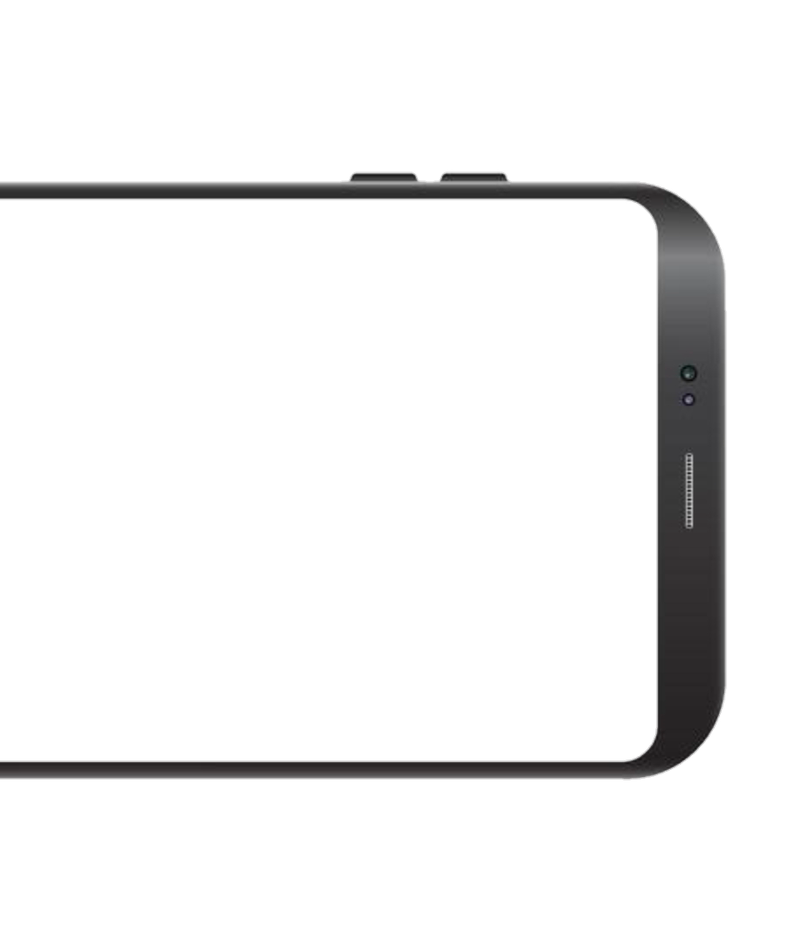
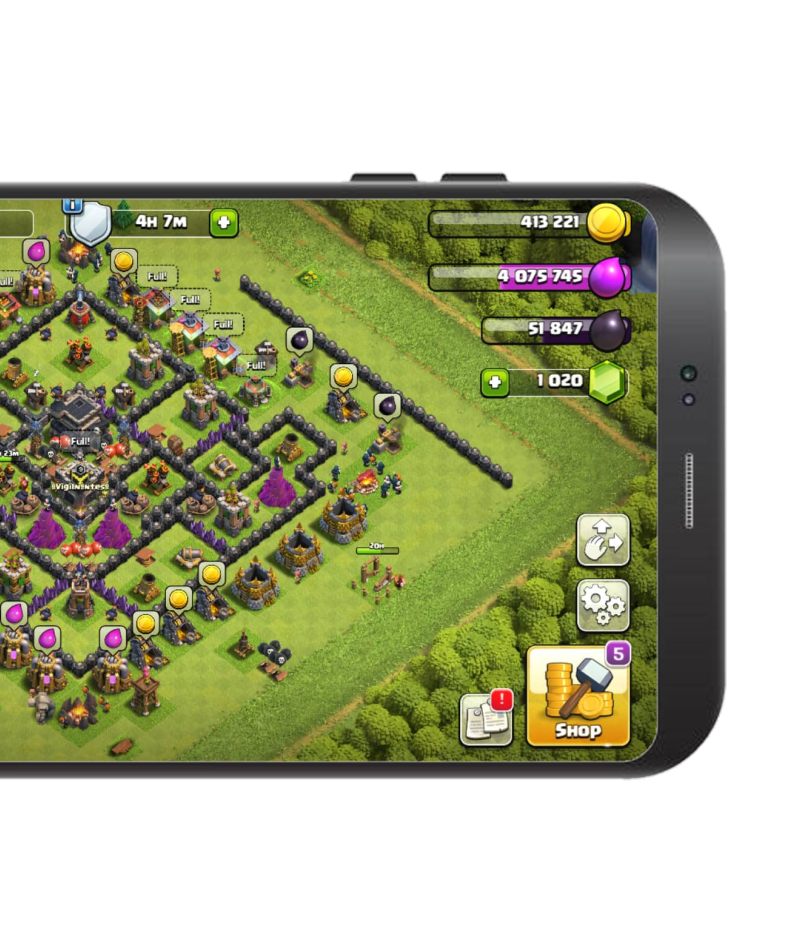
dawson
kulang pa footer tsaka blockquote sa gitna
hindi pa magana yung font

diff --git a/ElixirTroops/Homepagestyle.css b/ElixirTroops/Homepagestyle.css
@@ -68,13 +68,14 @@ header {
 #intro1container {
     grid-area: intro1container;
     padding-top: 10%;
-    padding-left: 10%;
+    padding-right: 40%;
     width: 70%;
 }
 
 #intro2container {
     grid-area: intro2container;
-    padding-left: 10%;
+    padding-top: 10%;
+    padding-left: 50%;
     width: 70%;
 }
 
@@ -84,9 +85,21 @@ header {
     width: 70%;
 }
 
-.phone{
- width: 70%;
- position: left auto;
+.phone{ 
+ 
+ width: 150%;
+ position: left;
  
 }
-
+.barbarian{
+    width: 100%;
+    position: left ;
+    left: 10px;
+    right: 10px;
+}
+.section3{
+    background-size: cover;
+    background-attachment: scroll;
+    background-position: center, center;
+    width: 100%;
+}

diff --git a/ElixirTroops/Homepage.html b/ElixirTroops/Homepage.html
@@ -27,17 +27,24 @@
     </header>
     <main>
         <section class="section1">
-        <div id="#middlecaption"></div>
+
         </section>
         <section class="section2">
             <div id="intro1container">
                 <img class="phone" src="Homeimages/mobilephone.png" alt="mobilephone">
           
             </div>
+            <div >
+                <img class="barbarian" src="Homeimages/barbarian.png" alt="ClashofclansBarbarian">
+            </div>
+        </section>
+        <section>
+            <img class="section3" src="Homeimages/Bottombg.png" alt="BGH">
         </section>
     </main>
+     <footer>
 
-
-</body>
+    </footer>
+  </body>
 </html>
 
